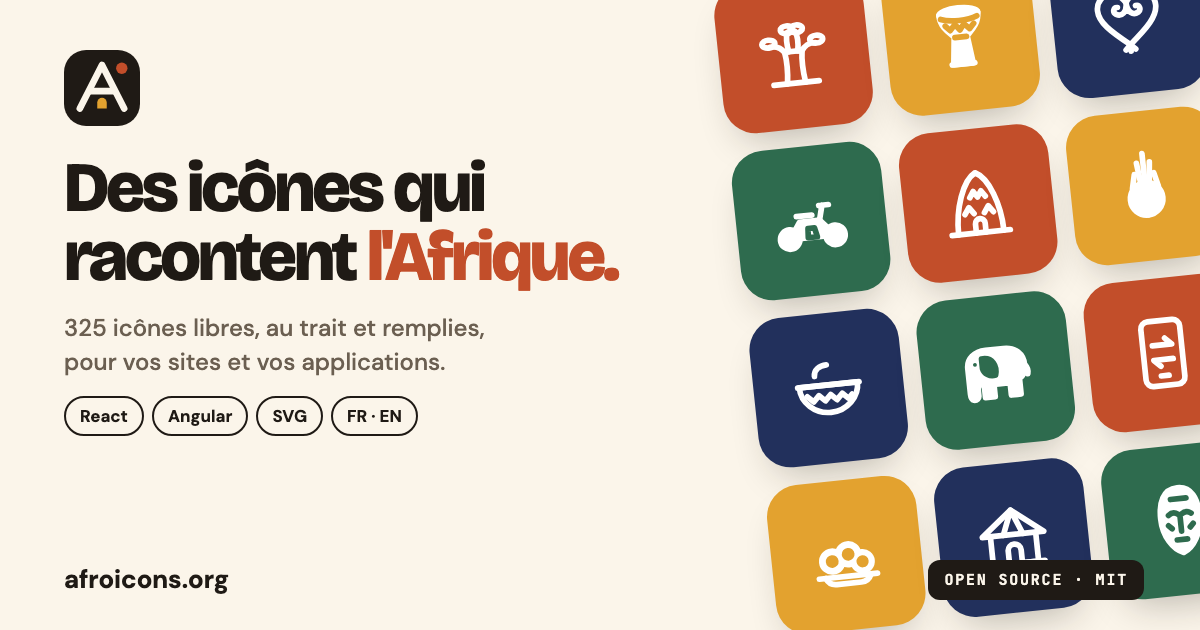
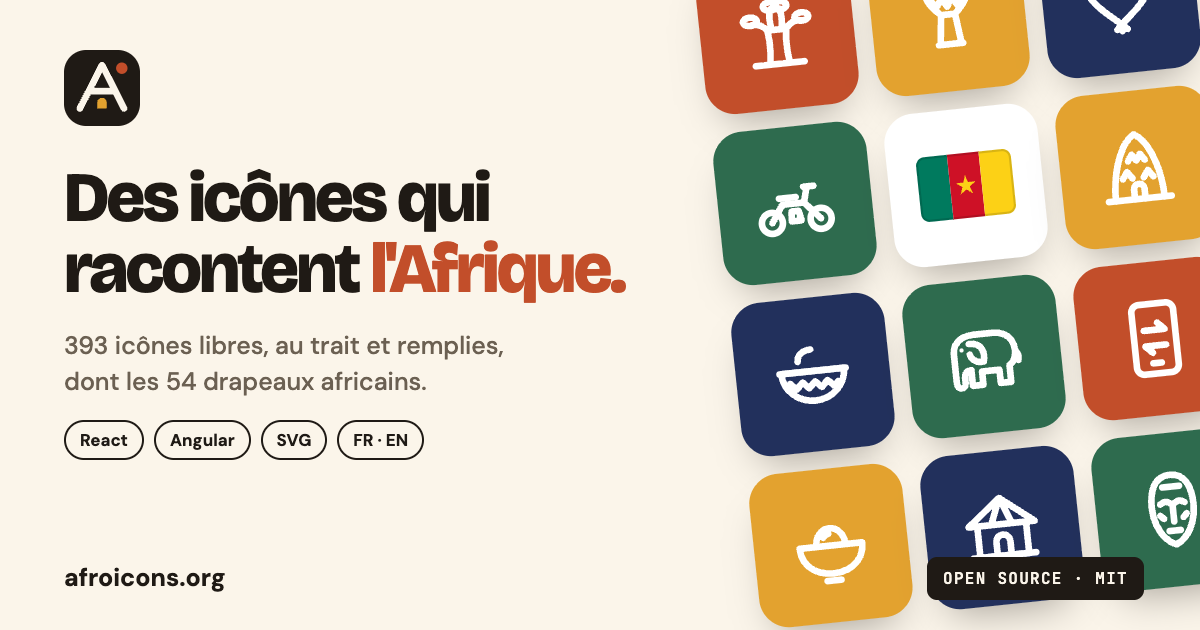
Audit : QA mobile, tests de non-régression du site, image de partage
- Tests de non-régression du site (apps/web/scripts/check.mjs), lancés à chaque build :
  une page par icône (titre, canonique, dessin, code, pas de texte cassé), liste,
  nouveautés, plan du site, compteurs de l'accueil
- Onglets des collections : ils tiennent sur les téléphones de 320 px
- Badge de l'accueil sur une ligne (393 icônes libres · 54 drapeaux)
- Plus d'erreur en console quand on change vite de filtre (transition interrompue)
- Titre de l'onglet d'un drapeau identique à celui de sa page
- Image de partage : 393 icônes dont les 54 drapeaux, générée par docs/og/make.mjs
- README et descriptions npm à jour (54 drapeaux, 177 icônes d'interface)

diff --git a/docs/og/og-image.html b/docs/og/og-image.html
@@ -1,0 +1,18 @@
+<!doctype html><html><head><meta charset="utf-8"><link href="https://fonts.googleapis.com/css2?family=Bricolage+Grotesque:opsz,wght@12..96,800&family=DM+Sans:wght@500;700&family=JetBrains+Mono:wght@600&display=swap" rel="stylesheet"><style>
+body{margin:0;width:1200px;height:630px;overflow:hidden;background:#FBF5EA;font-family:"DM Sans";color:#1F1A15;position:relative}
+.l{position:absolute;left:64px;top:50px;width:600px}.logo svg{width:76px;height:76px}
+h1{font:800 70px/1.02 "Bricolage Grotesque";letter-spacing:-.04em;margin:32px 0 22px}h1 b{color:#C24E2A}
+p{font-size:25px;line-height:1.45;color:#6B6052;margin:0 0 20px}
+.chips{display:flex;gap:10px}.chips span{border:2px solid #1F1A15;border-radius:99px;padding:7px 14px;font-weight:700;font-size:17px}
+.url{position:absolute;left:64px;bottom:36px;font-weight:700;font-size:25px}
+.g{position:absolute;right:-24px;top:-64px;display:grid;grid-template-columns:repeat(3,154px);gap:18px;transform:rotate(-6deg)}
+.t{width:154px;height:154px;border-radius:30px;display:grid;place-items:center;box-shadow:0 22px 40px -18px #1F1A1566}
+.t.f{background:#fff}.mit{position:absolute;right:56px;bottom:30px;background:#1F1A15;color:#FBF5EA;font:600 16px "JetBrains Mono";letter-spacing:.08em;padding:11px 16px;border-radius:10px}
+</style></head><body><div class="l"><div class="logo"><svg xmlns="http://www.w3.org/2000/svg" width="512" height="512" viewBox="0 0 48 48"><rect width="48" height="48" rx="14" fill="#1F1A15"/><g fill="none" stroke="#FBF5EA" stroke-width="4.2" stroke-linecap="round" stroke-linejoin="round"><path d="M10 37L24 9.5L38 37"/><path d="M16.2 26H31.8"/></g><path d="M21 37V33.2A3 3 0 0 1 27 33.2V37Z" fill="#E3A22F"/><circle cx="36.5" cy="11.5" r="3.6" fill="#C24E2A"/></svg>
+</div>
+<h1>Des icônes qui racontent <b>l'Afrique.</b></h1>
+<p>393 icônes libres, au trait et remplies,<br>dont les 54 drapeaux africains.</p>
+<div class="chips"><span>React</span><span>Angular</span><span>SVG</span><span>FR · EN</span></div></div>
+<div class="url">afroicons.org</div>
+<div class="g"><div class="t" style="background:#C24E2A"><svg viewBox="0 0 24 24" width="84" height="84" fill="none" stroke="#fff" stroke-width="1.9" stroke-linecap="round" stroke-linejoin="round" color="#fff"><path d="M9.2 21C9.7 17.5 9.8 14.3 9.3 11.2H14.7C14.2 14.3 14.3 17.5 14.8 21"/><path d="M5 21H19"/><path d="M9.5 11.5C8.4 9.8 6.8 9 5 9.2M10.6 11.2C10.2 9 10 7 10.8 5.2M13.4 11.2C13.8 9 14 7 13.2 5.2M14.5 11.5C15.6 9.8 17.2 9 19 9.2"/><ellipse cx="4.6" cy="8.2" rx="2" ry="1.2"/><ellipse cx="10.6" cy="4.4" rx="1.9" ry="1.2"/><ellipse cx="13.6" cy="4.4" rx="1.9" ry="1.2"/><ellipse cx="19.4" cy="8.2" rx="2" ry="1.2"/></svg></div><div class="t" style="background:#E3A22F"><svg viewBox="0 0 24 24" width="84" height="84" fill="none" stroke="#fff" stroke-width="1.9" stroke-linecap="round" stroke-linejoin="round" color="#fff"><ellipse cx="12" cy="5" rx="6" ry="1.8"/><path d="M6 5C6 8.6 8.6 10.6 10 12L9 20.5H15L14 12C15.4 10.6 18 8.6 18 5"/><path d="M7.2 7.4L9 9.6L10.6 7.2L12 9.8L13.4 7.2L15 9.6L16.8 7.4"/><path d="M10 12H14M8.5 20.5H15.5"/></svg></div><div class="t" style="background:#22305C"><svg viewBox="0 0 24 24" width="84" height="84" fill="none" stroke="#fff" stroke-width="1.9" stroke-linecap="round" stroke-linejoin="round" color="#fff"><path d="M12 20C6.3 15.3 3 12.2 3 8.6C3 5.6 5.3 4 7.5 4C9.5 4 11 5.4 12 7C13 5.4 14.5 4 16.5 4C18.7 4 21 5.6 21 8.6C21 12.2 17.7 15.3 12 20Z"/><path d="M12 7C12 10 10.2 11.2 8.6 10.3C7.5 9.6 7.9 8 9.2 8.2M12 7C12 10 13.8 11.2 15.4 10.3C16.5 9.6 16.1 8 14.8 8.2"/><path d="M12 20V22M10.5 21.5L12 20L13.5 21.5"/></svg></div><div class="t" style="background:#2E6B4E"><svg viewBox="0 0 24 24" width="84" height="84" fill="none" stroke="#fff" stroke-width="1.9" stroke-linecap="round" stroke-linejoin="round" color="#fff"><circle cx="5" cy="17" r="3"/><circle cx="19" cy="17" r="3"/><path d="M5 17L8.4 12H14.6L19 17"/><path d="M7.6 10.2H12.4"/><path d="M14.6 12L15.8 7.5M14.8 7.5H17.8"/><path d="M10.6 17H13.4L12.8 14.2H10.8Z"/></svg></div><div class="t f" style="background:#fff"><svg viewBox="0 0 24 24" width="104" height="104"><clipPath id="afc-cm"><rect x="1" y="4.5" width="22" height="15" rx="2"/></clipPath><g clip-path="url(#afc-cm)" stroke="none"><rect x="1" y="4.5" width="7.33" height="15" fill="#007A5E"/><rect x="8.33" y="4.5" width="7.33" height="15" fill="#CE1126"/><rect x="15.67" y="4.5" width="7.33" height="15" fill="#FCD116"/><path d="M12 9.6L12.54 11.26L14.28 11.26L12.87 12.28L13.41 13.94L12 12.92L10.59 13.94L11.13 12.28L9.72 11.26L11.46 11.26Z" fill="#FCD116"/></g><rect x="1.25" y="4.75" width="21.5" height="14.5" rx="1.75" fill="none" stroke="#000000" stroke-opacity=".14" stroke-width=".5"/></svg></div><div class="t" style="background:#E3A22F"><svg viewBox="0 0 24 24" width="84" height="84" fill="none" stroke="#fff" stroke-width="1.9" stroke-linecap="round" stroke-linejoin="round" color="#fff"><path d="M5 21C5 13 8 4.5 12 2.5C16 4.5 19 13 19 21"/><path d="M3 21H21"/><path d="M10.5 21V18.2A1.5 1.5 0 0 1 13.5 18.2V21"/><path d="M9.6 10L10.8 8.2L12 10L13.2 8.2L14.4 10"/><path d="M7.6 15L9 13L10.4 15M13.6 15L15 13L16.4 15"/></svg></div><div class="t" style="background:#22305C"><svg viewBox="0 0 24 24" width="84" height="84" fill="none" stroke="#fff" stroke-width="1.9" stroke-linecap="round" stroke-linejoin="round" color="#fff"><path d="M3 11H21A9 8.5 0 0 1 3 11Z"/><path d="M5.2 14L7 15.8L8.8 14L10.6 15.8L12.4 14L14.2 15.8L16 14L17.8 15.8L19 14.6"/><path d="M8 8C8 6 9.8 4.8 12 4.8"/><path d="M2.5 11H21.5"/></svg></div><div class="t" style="background:#2E6B4E"><svg viewBox="0 0 24 24" width="84" height="84" fill="none" stroke="#fff" stroke-width="1.9" stroke-linecap="round" stroke-linejoin="round" color="#fff"><path d="M4.4 20.4C3.8 20.2 3.5 19.6 3.5 18.5V10.5C3.5 7.5 6 5.5 9.5 5.5H15C18.8 5.5 21 7.8 21 11C21 13 20.3 14.5 19 15.2V20H16V16.2H11V20H8V15.5C6.8 15.5 6 16.2 6 17.5V19.2C6 20 5.3 20.6 4.4 20.4Z"/><path d="M8 8C11.5 7.8 12.6 10.6 11.8 13.4C10 13.8 8.3 12.6 8 11"/><path d="M21 11C21.8 12 22 13 21.7 14"/><circle cx="5.8" cy="9.6" r="0.6" fill="currentColor" stroke="none"/></svg></div><div class="t" style="background:#C24E2A"><svg viewBox="0 0 24 24" width="84" height="84" fill="none" stroke="#fff" stroke-width="1.9" stroke-linecap="round" stroke-linejoin="round" color="#fff"><rect x="6" y="2" width="12" height="20" rx="2.2"/><path d="M9 9.5H15L13 7.5"/><path d="M15 14H9L11 16"/><path d="M10.8 19H13.2"/></svg></div><div class="t" style="background:#E3A22F"><svg viewBox="0 0 24 24" width="84" height="84" fill="none" stroke="#fff" stroke-width="1.9" stroke-linecap="round" stroke-linejoin="round" color="#fff"><path d="M3 12H21C21 17 17 20 12 20S3 17 3 12Z"/><path d="M7.8 12C7.8 9 9.8 7 12 7S16.2 9 16.2 12"/><path d="M10 9.6C10.4 9 11 8.7 11.6 8.6"/><path d="M10 22H14"/></svg></div><div class="t" style="background:#22305C"><svg viewBox="0 0 24 24" width="84" height="84" fill="none" stroke="#fff" stroke-width="1.9" stroke-linecap="round" stroke-linejoin="round" color="#fff"><path d="M2.5 11L12 3.5L21.5 11Z"/><path d="M12 3.5L9 11M12 3.5L15 11"/><path d="M5 11V20H19V11"/><path d="M10 20V16A2 2 0 0 1 14 16V20"/><path d="M3 20H21"/></svg></div><div class="t" style="background:#2E6B4E"><svg viewBox="0 0 24 24" width="84" height="84" fill="none" stroke="#fff" stroke-width="1.9" stroke-linecap="round" stroke-linejoin="round" color="#fff"><path d="M12 2C16.4 2 18 6 18 11C18 16.4 15.2 20.8 12 22C8.8 20.8 6 16.4 6 11C6 6 7.6 2 12 2Z"/><path d="M8.5 10.2C9.5 9.4 10.5 9.4 11.5 10.2M12.5 10.2C13.5 9.4 14.5 9.4 15.5 10.2"/><path d="M12 11.2V15.4"/><path d="M10.4 18H13.6"/><path d="M9.6 5.4H14.4"/><path d="M8.2 13.4L9.2 14.4M15.8 13.4L14.8 14.4"/></svg></div></div>
+<div class="mit">OPEN SOURCE · MIT</div></body></html>

diff --git a/apps/web/src/components/Library.tsx b/apps/web/src/components/Library.tsx
@@ -176,7 +176,14 @@ export function Library() {
     setAnim(true); setFocusIdx(-1); setPage(p);
     requestAnimationFrame(() => grid.current?.scrollIntoView({ block: "start", behavior: matchMedia("(prefers-reduced-motion: reduce)").matches ? "auto" : "smooth" }));
   };
-  const change = (fn: () => void) => { setAnim(true); setFocusIdx(-1); const go = () => fn(); (document as any).startViewTransition && !matchMedia("(prefers-reduced-motion: reduce)").matches ? (document as any).startViewTransition(go) : go(); };
+  const change = (fn: () => void) => {
+    setAnim(true); setFocusIdx(-1);
+    const vt = (document as any).startViewTransition;
+    if (!vt || matchMedia("(prefers-reduced-motion: reduce)").matches) return fn();
+    // Une transition interrompue par la suivante (clics rapides) n'est pas une erreur.
+    const t = vt.call(document, fn);
+    t.ready?.catch(() => {}); t.finished?.catch(() => {}); t.updateCallbackDone?.catch(() => {});
+  };
   useEffect(() => { if (anim) { const h = setTimeout(() => setAnim(false), 900); return () => clearTimeout(h); } }, [anim, list]);
 
   const o = { s: a.size, style: a.style, w: a.stroke, c: lineLike(a.style) ? "currentColor" : a.color ?? "#fff", bg: a.badgeBg };

diff --git a/apps/web/src/components/Header.tsx b/apps/web/src/components/Header.tsx
@@ -126,7 +126,7 @@ export function Hero() {
     <header className="hero wrap" id="top">
       <div>
         <div className="eyebrows">
-        <a className="eyebrow" href="/nouveautes/" title={a.tt("Voir les nouveautés", "See what's new")}><b>v{VERSION}</b><span>{a.tt(`${ICONS.length} icônes libres · dont les ${FLAGS.length} drapeaux africains`, `${ICONS.length} free icons · incl. all ${FLAGS.length} African flags`)}</span></a>
+        <a className="eyebrow" href="/nouveautes/" title={a.tt("Voir les nouveautés", "See what's new")}><b>v{VERSION}</b><span>{a.tt(`${ICONS.length} icônes libres · ${FLAGS.length} drapeaux`, `${ICONS.length} free icons · ${FLAGS.length} flags`)}</span></a>
         <button className="eyebrow iod" onClick={() => a.openIcon(iod.id)}>
           <Svg i={iod} o={{ s: 18, w: 2 }} /><span>{a.tt("Icône du jour", "Icon of the day")} : <strong style={{ color: "var(--ink)" }}>{nm(iod)}</strong></span>
         </button>

diff --git a/apps/web/src/App.tsx b/apps/web/src/App.tsx
@@ -32,7 +32,7 @@ export default function App() {
   const siteTitle = useRef(document.title.includes("| Afroicons") && PAGE === "home" ? a.tt("Afroicons — des icônes qui racontent l'Afrique", "Afroicons — icons that tell Africa's story") : document.title);
   useEffect(() => {
     const i = a.current ? byId[a.current] : null;
-    document.title = i ? `${a.lang === "en" ? i.en : i.fr} — ${a.tt("icône SVG gratuite", "free SVG icon")} | Afroicons` : siteTitle.current;
+    document.title = i ? `${a.lang === "en" ? i.en : i.fr} — ${i.cat === "drapeaux" ? a.tt("SVG gratuit, couleurs officielles", "free SVG, official colours") : a.tt("icône SVG gratuite", "free SVG icon")} | Afroicons` : siteTitle.current;
   }, [a.current, a.lang]); // eslint-disable-line react-hooks/exhaustive-deps
 
   // Pas de défilement de la page derrière une fenêtre ouverte.

diff --git a/apps/web/src/styles.css b/apps/web/src/styles.css
@@ -614,7 +614,8 @@ a.vote span:first-child{font-size:17px;line-height:1}
 .seg.cols{flex:none;height:36px}
 .seg.cols button{display:flex;align-items:center;gap:6px;padding:0 12px;font-size:13px}
 .seg.cols small{font:600 11px "JetBrains Mono";opacity:.6}
-@media (max-width:640px){.seg.cols{align-self:flex-start}}
+@media (max-width:640px){.seg.cols{align-self:stretch;min-width:0}.seg.cols button{flex:1;justify-content:center;padding:0 6px;gap:4px;min-width:0}}
+@media (max-width:380px){.seg.cols button{font-size:12px}.seg.cols small{font-size:10px}}
 
 /* Chiffres d'usage (section Utiliser) */
 .ustats{display:flex;gap:8px;flex-wrap:wrap;align-items:center}

diff --git a/packages/afroicons-ui/README.md b/packages/afroicons-ui/README.md
@@ -22,8 +22,8 @@ Avec l'alias, `afroicons-ui` doit lui-même pouvoir importer le vrai `lucide-rea
 
 ## Ce qui change
 
-- **163 icônes redessinées** (les plus utilisées par NAFA ERP : priorités P1 et P2) : trait 1,75 arrondi, grille 24 × 24.
-- **18 métaphores africaines** : `Home` → la case, `ShoppingCart` → le panier tressé, `Store` → la boutique de quartier, `Wallet` → un portefeuille fermé par un cauri, `DollarSign` → le cauri, `Truck` → la moto de livraison, `Bus` → le taxi-brousse, `BedDouble` → le lit sous moustiquaire, `Shirt` → le dashiki, `UtensilsCrossed` → la marmite, `Fuel` → le bidon, `Users` → deux personnes dont une coiffée d'un gele, `Globe` → un globe centré sur l'Afrique, `ShoppingBag` → le sac de marché en raphia tressé…
+- **177 icônes redessinées** (les plus utilisées par NAFA ERP et SYSIGAPE) : trait 1,75 arrondi, grille 24 × 24.
+- **20 métaphores africaines** : `Home` → la case, `ShoppingCart` → le panier tressé, `Store` → la boutique de quartier, `Wallet` → un portefeuille fermé par un cauri, `DollarSign` → le cauri, `Truck` → la moto de livraison, `Bus` → le taxi-brousse, `BedDouble` → le lit sous moustiquaire, `Shirt` → le dashiki, `UtensilsCrossed` → la marmite, `Fuel` → le bidon, `Users` → deux personnes dont une coiffée d'un gele, `Globe` → un globe centré sur l'Afrique, `ShoppingBag` → le sac de marché en raphia tressé, `PiggyBank` → la tirelire en terre cuite, `Tractor` → la daba, houe du paysan…
 - **Toutes les autres** icônes Lucide restent disponibles sous leur nom : elles viennent directement de `lucide-react`.
 
 `afroiconNames` donne la liste des icônes redessinées.

diff --git a/packages/afroicons/README.md b/packages/afroicons/README.md
@@ -1,6 +1,6 @@
 # afroicons
 
-162 icônes SVG libres qui racontent l'Afrique, au trait et remplies. Grille 24 px, trait 1,75, `currentColor`.
+162 icônes SVG libres qui racontent l'Afrique, au trait et remplies, et les 54 drapeaux africains aux couleurs officielles. Grille 24 px, trait 1,75, `currentColor`.
 
 ```bash
 npm install afroicons
@@ -10,6 +10,7 @@ npm install afroicons
 import { toSvg, icons, names, replace } from "afroicons";
 toSvg("baobab", { size: 32, color: "#C24E2A", strokeWidth: 2 });
 toSvg("baobab", { variant: "fill" });   // version remplie
+toSvg("drapeau-cameroun");              // drapeau, aux couleurs officielles
 icons.djembe.fr;      // "Djembé"
 icons.djembe.region;  // "ouest"
 replace();            // remplace <i data-afroicon="kora"></i> (data-variant="fill" pour la version remplie)

diff --git a/packages/afroicons-angular/README.md b/packages/afroicons-angular/README.md
@@ -1,6 +1,6 @@
 # afroicons-angular
 
-Les icônes [Afroicons](https://afroicons.org) pour Angular (18 et plus) : un composant autonome `<afroicon>`, les **162 icônes culturelles** (au trait et remplies) et les **163 icônes d'interface** (noms Lucide, comme [`afroicons-ui`](https://www.npmjs.com/package/afroicons-ui)).
+Les icônes [Afroicons](https://afroicons.org) pour Angular (18 et plus) : un composant autonome `<afroicon>`, les **162 icônes culturelles** (au trait et remplies), les **54 drapeaux africains** et les **177 icônes d'interface** (noms Lucide, comme [`afroicons-ui`](https://www.npmjs.com/package/afroicons-ui)).
 
 ```bash
 npm install afroicons-angular

diff --git a/README.md b/README.md
@@ -20,7 +20,7 @@
 | --- | --- |
 | [`afroicons`](packages/afroicons) | SVG, sprite, `icons.json`, fonction `toSvg()` (JS natif) |
 | [`afroicons-react`](packages/afroicons-react) | Un composant React par icône |
-| [`afroicons-ui`](packages/afroicons-ui) | 163 icônes d'interface, compatibles `lucide-react` (mêmes noms, mêmes props) |
+| [`afroicons-ui`](packages/afroicons-ui) | 177 icônes d'interface, compatibles `lucide-react` (mêmes noms, mêmes props) |
 | [`afroicons-angular`](packages/afroicons-angular) | Composant Angular autonome `<afroicon>`, toutes les icônes |
 
 ## Démarrage rapide · Quick start

diff --git a/packages/afroicons-react/README.md b/packages/afroicons-react/README.md
@@ -1,13 +1,13 @@
 # afroicons-react
 
-Les 162 icônes [Afroicons](https://afroicons.org) en composants React.
+Les 162 icônes [Afroicons](https://afroicons.org) et les 54 drapeaux africains en composants React.
 
 ```bash
 npm install afroicons-react
 ```
 
 ```jsx
-import { Baobab, Mobilemoney, Mototaxi } from "afroicons-react";
+import { Baobab, Mobilemoney, Mototaxi, DrapeauCameroun } from "afroicons-react";
 
 <Baobab />
 <Mobilemoney size={20} color="#22305C" />
